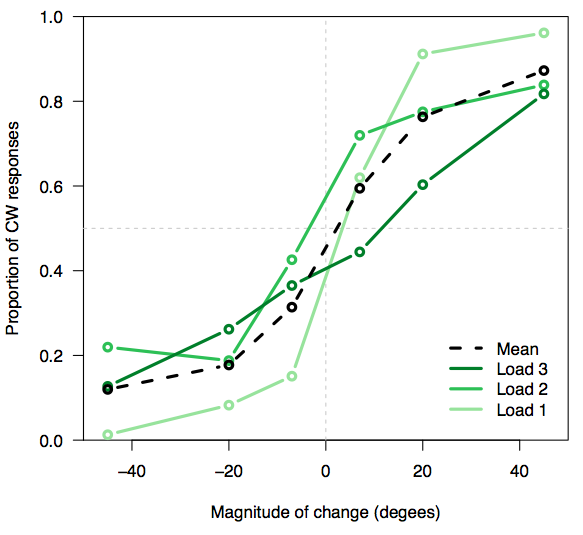
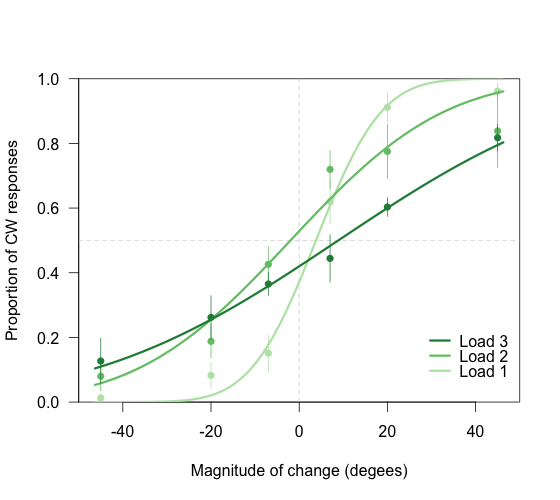
Update Behavioral results

diff --git a/behave-image.html b/behave-image.html
@@ -16,7 +16,14 @@
       </div>
       <div id="content-frame" class='with-only-head'>
         <div id="content">
-          <img class="img-responsive" src='media/motionTrans_behave.png'>
+          <div class="row">
+            <div class="col-md-6">
+              <img class="img-responsive" src='media/motionTrans_behave.png'>
+            </div>
+            <div class="col-md-6">
+              <img class="img-responsive" src='media/motionTrans_behave_prec.png'>
+            </div>
+          </div>
         </div>
       </div>
     </div>
